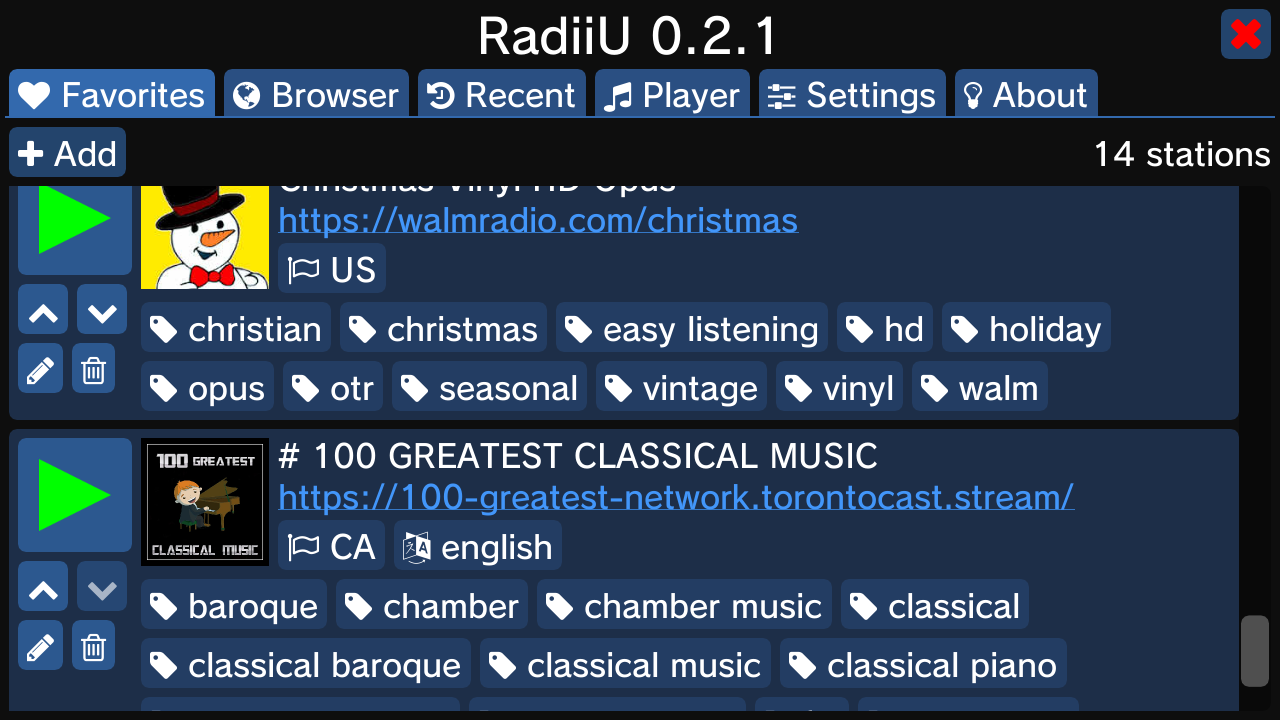
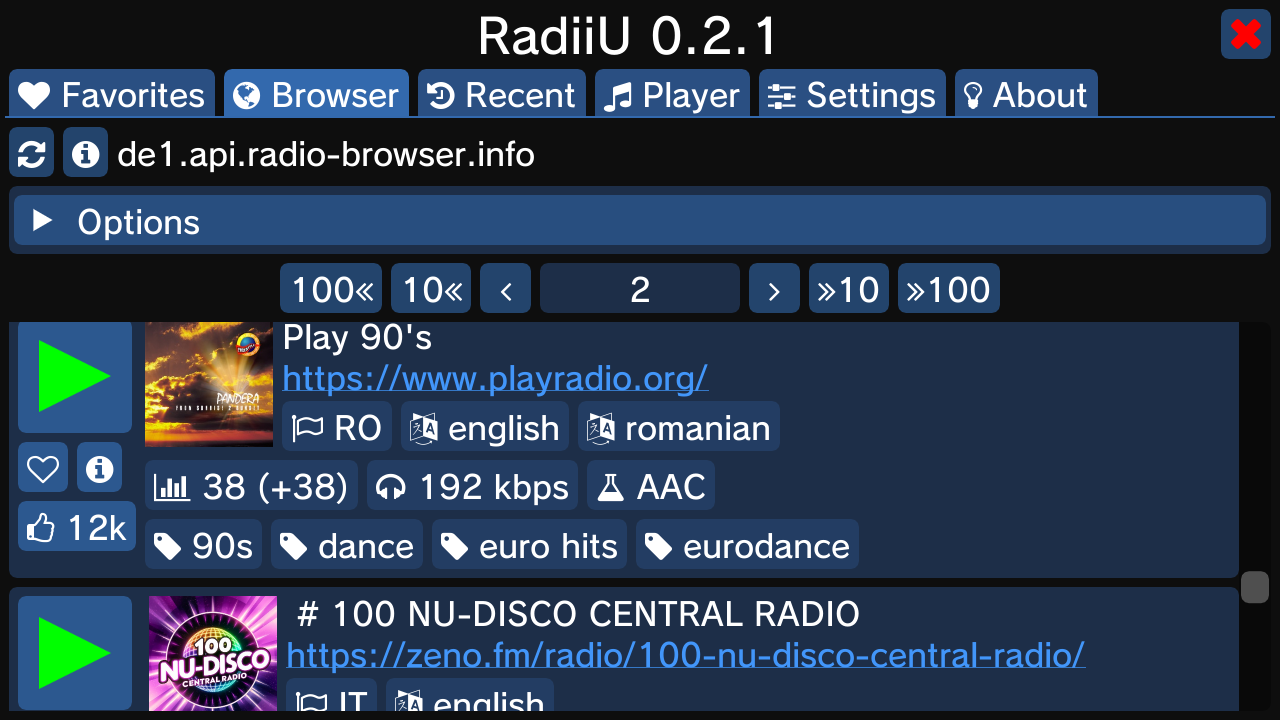
Fixed screenshots.

diff --git a/README.md b/README.md
@@ -12,6 +12,12 @@ It uses the station listing from [www.radio-browser.info](https://www.radio-brow
 
 ![RadiiU Favorites tab](assets/hbas/radiiu-favorites.png)
 
+![RadiiU Browser tab](assets/hbas/radiiu-browser.png)
+
+![RadiiU Browser tab search](assets/hbas/radiiu-browser-search.png)
+
+![RadiiU Player tab](assets/hbas/radiiu-player.png)
+
 
 ## Build instructions
 
@@ -21,10 +27,6 @@ It uses the station listing from [www.radio-browser.info](https://www.radio-brow
 
 - `ppc-jansson`
 
-- libcurl
-  - Wii U curl package: https://github.com/dkosmari/wiiu-curl-package
-  - Wii U mbedtls package: https://github.com/dkosmari/wiiu-mbedtls-package
-
 - `ppc-faad2`
 
 - `ppc-mpg123`
@@ -32,6 +34,10 @@ It uses the station listing from [www.radio-browser.info](https://www.radio-brow
 - `ppc-opusfile`
 
 - `ppc-vorbisfile`
+
+- libcurl
+  - Wii U curl package: https://github.com/dkosmari/wiiu-curl-package
+  - Wii U mbedtls package: https://github.com/dkosmari/wiiu-mbedtls-package
 
 - SDL2
   - Wii U package: https://github.com/dkosmari/wiiu-sdl2-package
